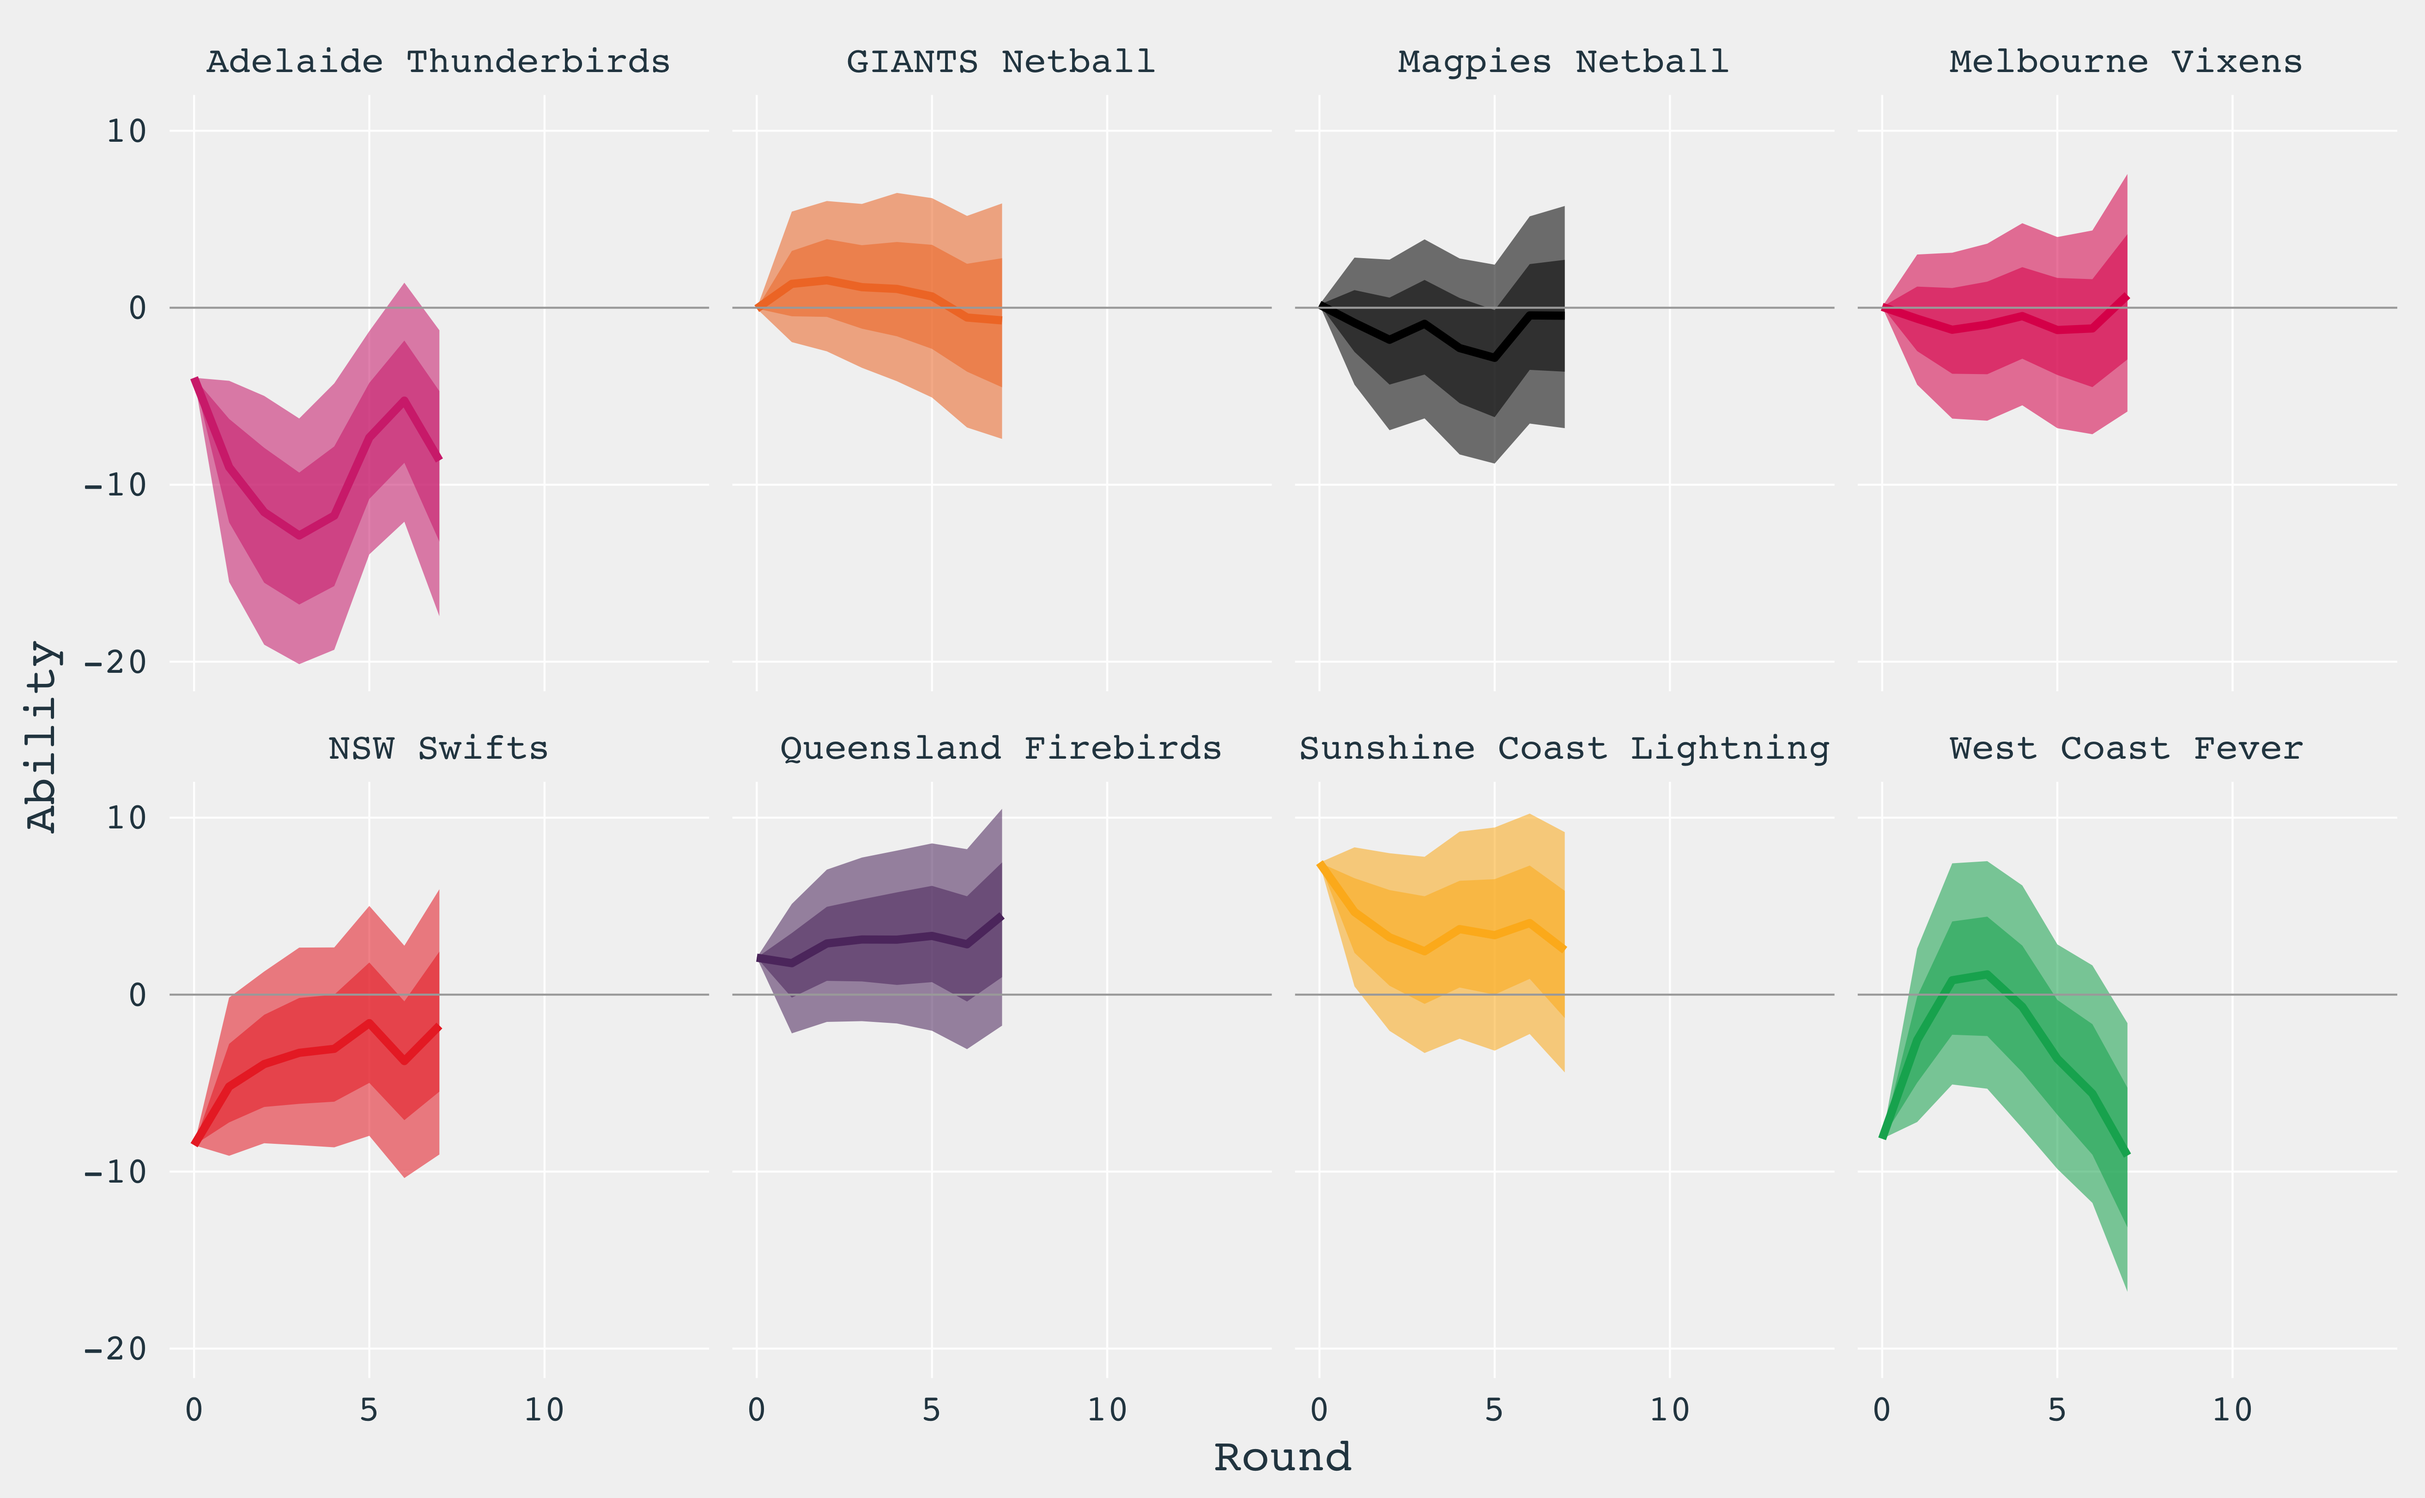
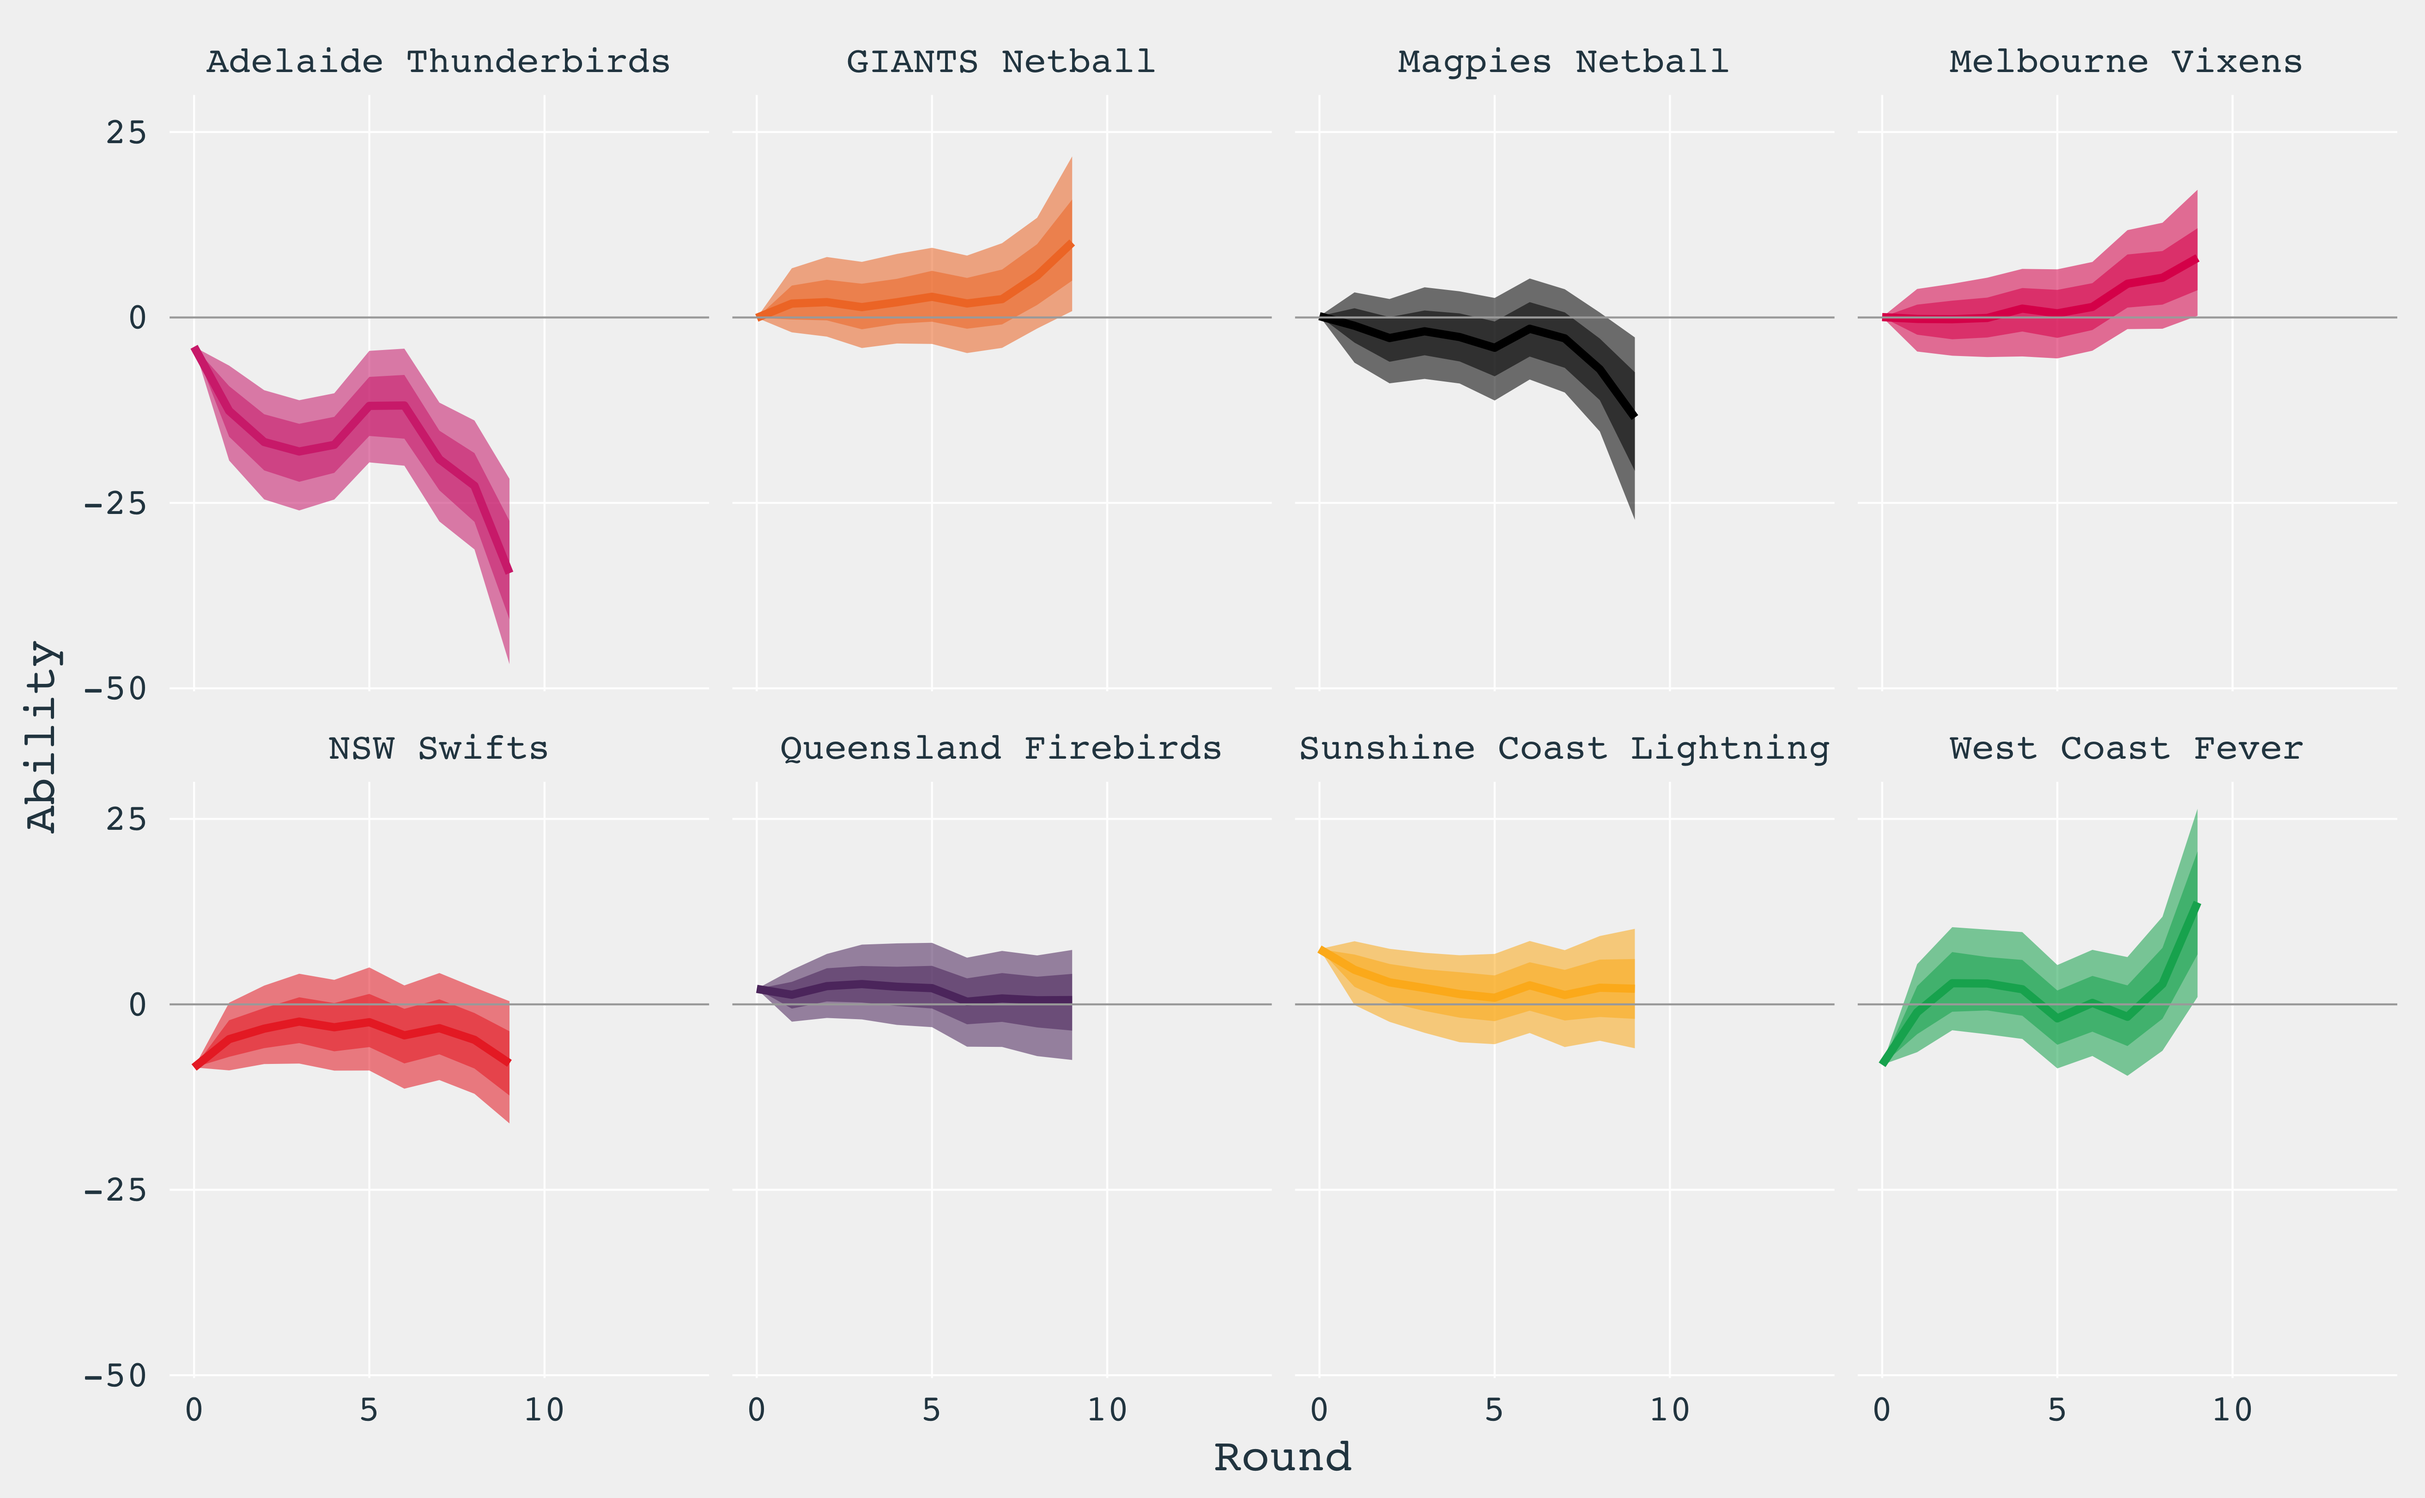
had incorrect labeels in modelling, meaning this was incorrect

diff --git a/content/post/2018-07-05-round10.md b/content/post/2018-07-05-round10.md
@@ -6,21 +6,23 @@ tags: ["r", "sports analytics"]
 categories: ["blog", "Super Netball"]
 ---
 
-<!-- Time-stamp: <2018-07-05 20:53:10 (slane)> -->
+<!-- Time-stamp: <2018-07-14 16:57:04 (slane)> -->
 
 
 
 
+
+**UPDATE: 2018-07-14:** I had an incorrect reference in my data setup for this round, so the predictions have changed. You can check out the history on github.
 
 Here are my model predictions for round 10! You can check out my wrap-up of round 9 [here]({{< relref "2018-07-04-round9-wrapup.md" >}}). Here's a summary of what [my model]({{< relref "2018-04-22-introduction.md" >}}) is predicting as the outcomes of the matches for round 10:
 
 
 |Home                  |Away                     |Chance of home team winning |
 |:---------------------|:------------------------|:---------------------------|
-|Queensland Firebirds  |Melbourne Vixens         |73%                         |
-|West Coast Fever      |Sunshine Coast Lightning |29%                         |
-|Adelaide Thunderbirds |Magpies Netball          |5%                          |
-|GIANTS Netball        |NSW Swifts               |68%                         |
+|Queensland Firebirds  |Melbourne Vixens         |26%                         |
+|West Coast Fever      |Sunshine Coast Lightning |82%                         |
+|Adelaide Thunderbirds |Magpies Netball          |9%                          |
+|GIANTS Netball        |NSW Swifts               |95%                         |
 
 ## Score Differential Distributions
 

diff --git a/content/post/2018-07-04-round9-wrapup.md b/content/post/2018-07-04-round9-wrapup.md
@@ -21,10 +21,10 @@ If you missed my round 9 predictions, [here they are]({{< relref "2018-06-29-rou
 
 |Home                     |Away                  |Chance of home team winning | Home Score| Away Score|Winner                   |
 |:------------------------|:---------------------|:---------------------------|----------:|----------:|:------------------------|
-|NSW Swifts               |Melbourne Vixens      |37%                         |         58|         65|Melbourne Vixens         |
-|Magpies Netball          |West Coast Fever      |63%                         |         57|         70|West Coast Fever         |
-|Sunshine Coast Lightning |Queensland Firebirds  |50%                         |         58|         57|Sunshine Coast Lightning |
-|GIANTS Netball           |Adelaide Thunderbirds |95%                         |         63|         44|GIANTS Netball           |
+|NSW Swifts               |Melbourne Vixens      |37%                         |        290|        325|Melbourne Vixens         |
+|Magpies Netball          |West Coast Fever      |63%                         |        285|        350|West Coast Fever         |
+|Sunshine Coast Lightning |Queensland Firebirds  |50%                         |        290|        285|Sunshine Coast Lightning |
+|GIANTS Netball           |Adelaide Thunderbirds |95%                         |        315|        220|GIANTS Netball           |
 
 ## Team Abilities
 
